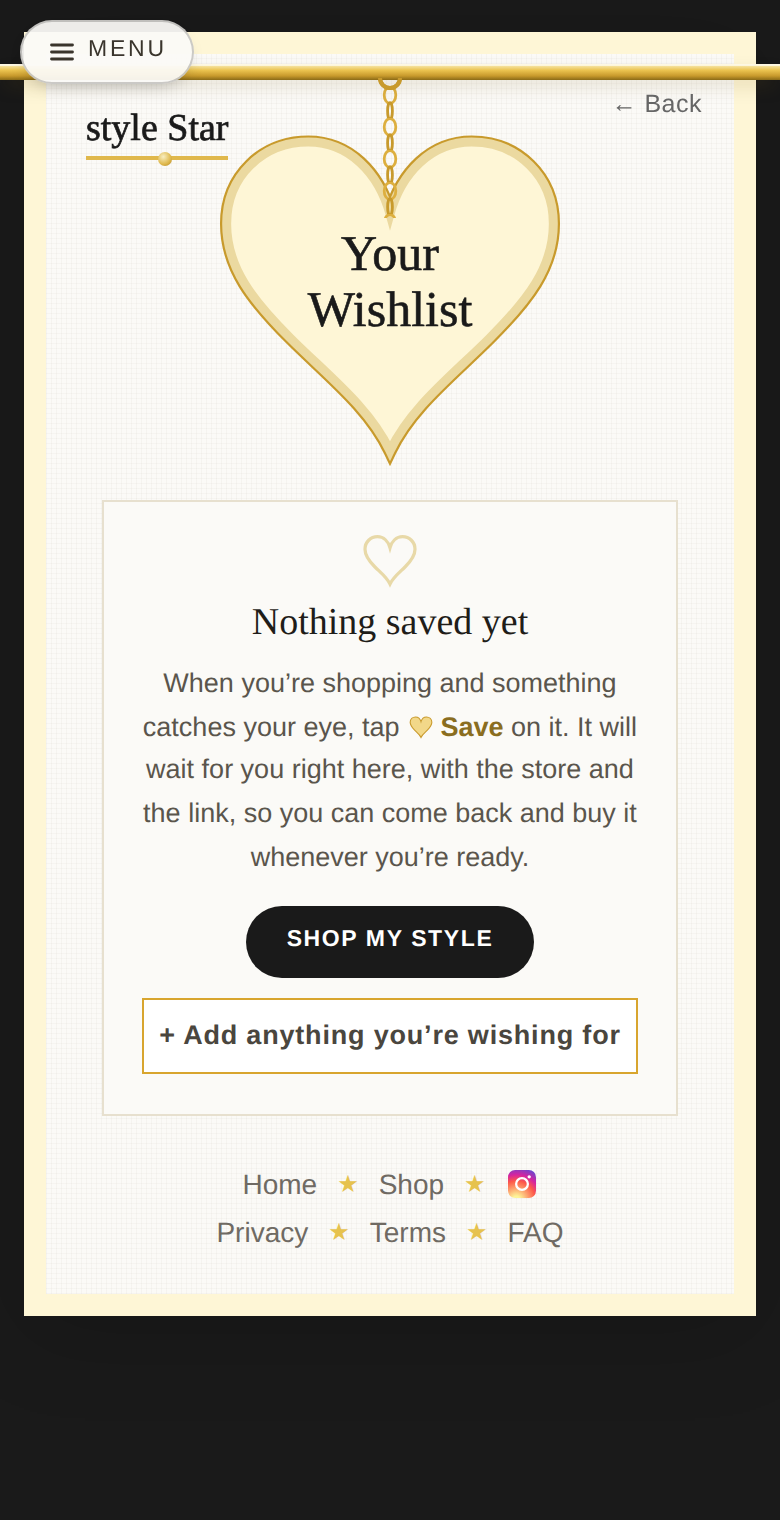
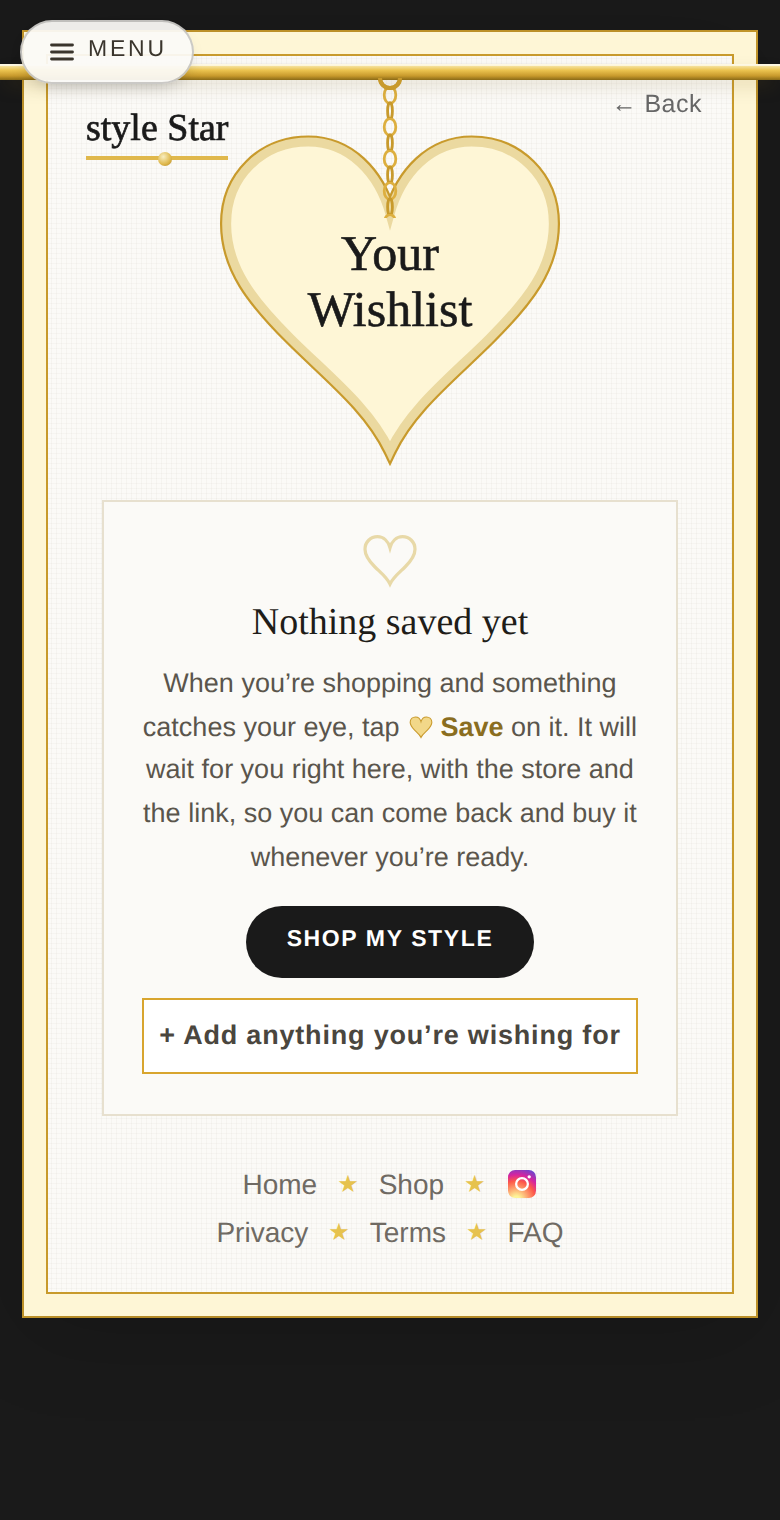
The wishlist frame gets its gold hairline (her pick, A)
Her catch on the live page: the pale yellow frame was getting lost. The cause is
VALUE, not hue. #FEF6D6 is nearly as light as the paper it surrounds, so the
frame's inner edge dissolved into the page and only its outer edge, against the
black velvet, read at all. The frame ended up looking like the paper simply had
a black outline.

Her pick from a five-way render: a 1px gold hairline on both edges. It keeps her
pale yellow exactly and gives it definition. The colour is #C89A2C, the crown
heart's own outline stroke, so the frame now matches the heart in construction
and not just in colour, which is what picking the heart's yellow was reaching for.

Offered and not taken: a black hairline (its outer ring merges with the velvet,
so it only does half a job) and two options that deepened the yellow instead.

Drawn with box-shadow, never a second border: an outset ring against the velvet
and an inset ring where the frame meets the paper, at zero layout cost. That
matters because the empty-state wishing button has only 13px of headroom, and it
still measures 13px after this.

⚠ This does not break the anti-layered-edge rule, it sharpens it. Her earlier
retirements (the restore card's 4px bar, My Story's white and pink inset rings)
were both second EMPHASIS devices on something already loud. A hairline here is
DEFINITION, the thing that makes the pale band visible at all.

Verified: wlframe.js grows 24 to 36 checks across 390/375/360, pinning both
[…]

diff --git a/index.html b/index.html
@@ -175,9 +175,22 @@ html.shop-brick,body.shop-brick{background-size:90px 54px;background-color:#F2EF
    she kept seeing. The page now carries ONE clean 11px frame in #FEF6D6, the
    exact pale yellow of the big crown heart above it -- same structure as My
    Story (11px solid) and the wardrobe, so all three boutique frames agree.
-   ⚠ Do not reintroduce a layered edge here; it is the same instinct that
-   retired the white+pink inset rings on My Story. */
-.ss.wishlist-mirror{border-width:11px;border-color:#FEF6D6}
+   AND HER FOLLOW-UP, same day, from the live page: the pale band was "too pale,
+   getting lost." ▶ The cause is VALUE, not hue -- #FEF6D6 is nearly as light as
+   the paper it surrounds, so its INNER edge dissolved into the page and only the
+   outer edge (against the black velvet) read at all. Her pick from a 5-way
+   render: a 1px gold hairline on BOTH edges, which keeps her pale yellow exactly
+   and gives it definition. #C89A2C is the crown heart's OWN outline stroke, so
+   the frame now matches the heart in construction, not just in colour.
+   ⚠ Drawn with box-shadow, never a second border: an outset ring sits against
+   the velvet and an inset ring sits where the frame meets the paper, at ZERO
+   layout cost -- the empty-state wishing button has only 13px of headroom.
+   ⚠ The earlier note here said never to layer an edge on this frame. That was
+   about EMPHASIS (the restore card's 4px bar, My Story's white+pink rings, both
+   retired by her). A hairline is DEFINITION -- it is what makes the pale band
+   visible at all. Don't add a third edge; this one is hers and it stays. */
+.ss.wishlist-mirror{border-width:11px;border-color:#FEF6D6;
+  box-shadow:0 8px 44px rgba(0,0,0,.16),0 0 0 1px #C89A2C,inset 0 0 0 1px #C89A2C}
 .ss.wishlist-mirror::before{display:none}
 html.wl-velvet,html.wl-velvet body{background:#1a1a1a}
 /* MY STORY'S VELVET (2026-08-09, her design: "I think it will make that page

diff --git a/scratchpad/wlframe.js b/scratchpad/wlframe.js
@@ -26,7 +26,10 @@ for(const w of [390,375,360]){
     const rg=document.createRange(); rg.selectNodeContents(span);
     const lines=[...new Set([...rg.getClientRects()].map(x=>Math.round(x.top)))].length;
     const cr=card.getBoundingClientRect(), br=btn.getBoundingClientRect();
+    const heartStroke=document.querySelector('#s-wishlist .wl-crownheart path:nth-of-type(1)');
     return {bw:cs.borderTopWidth,bc:cs.borderTopColor,beforeDisplay:before.display,
+      shadow:cs.boxShadow,
+      heartStroke:heartStroke?heartStroke.getAttribute('stroke'):null,
       heartFill:heart?heart.getAttribute('fill'):null,
       bleed:getComputedStyle(document.body).backgroundColor,
       avail,need,head:avail-need,lines,
@@ -37,6 +40,14 @@ for(const w of [390,375,360]){
   ok(r.bc==='rgb(254, 246, 214)',`frame is the crown heart's pale yellow (${r.bc})`);
   ok(r.heartFill==='#FEF6D6','...which is the exact fill of the big heart');
   ok(r.beforeDisplay==='none','the brown gilt band is gone');
+  // Her pick (2026-08-10): a gold hairline on BOTH edges, because the pale band
+  // alone dissolved into the paper. Both rings must survive, and the colour must
+  // stay the crown heart's own outline -- that is the whole point of the choice.
+  const rings=(r.shadow.match(/rgb\(200, 154, 44\)/g)||[]).length;
+  ok(rings===2,`gold hairline on both edges (${rings} rings)`);
+  ok(/inset/.test(r.shadow),'...one of them inset, so the inner edge reads against the paper');
+  ok(r.heartStroke==='#C89A2C','...in the crown heart\'s own outline gold');
+  ok(/44px/.test(r.shadow),'the card\'s drop shadow survived the box-shadow rewrite');
   ok(r.bleed==='rgb(26, 26, 26)','black velvet behind it is untouched');
   ok(r.inside&&!r.over,'nothing overflows');
   if(w>=390) ok(r.lines===1,`wishing button holds one line (${r.avail} avail / ${r.need} need, headroom ${r.head}px)`);

diff --git a/CLAUDE.md b/CLAUDE.md
@@ -35,6 +35,23 @@ are using Your and My. I want to be consistent and not confusing and not annoyin
   stops the brand name splitting across lines, which the browser's own wrap would have done for a longer name.
   ⚠ **Don't remove the forced break.** `scratchpad/titlerule.js` asserts block-hugs-widest-line, rule-inside-
   the-title, and **rule-identical-at-390/375/360** — the last one is what would fail if it regresses.
+- ✅ **HER TWO LIVE CATCHES ON THE SHIPPED VERSION, both built (2026-08-10):** (1) **the rule was too short** on
+  the no-name title — it was inset `left/right:8%`, now **0/0, so it is exactly as wide as the words** (252px
+  under the 252px no-name title, 0px overhang; 222px under the named one, matching its first line). ⚠
+  `titlerule.js`'s assertion flipped from *rule-inside-the-words* to *rule-equals-the-words* — a deliberate
+  change, recorded here so it can't read as a silenced test. (2) **the pale wishlist frame was "getting lost"**
+  — ▶ **the cause is VALUE, not hue: `#FEF6D6` is nearly as light as the paper it surrounds, so its INNER edge
+  dissolved and only the outer edge (against the black velvet) read at all.** Her pick from a 5-way render
+  (`scratchpad/wlframe2.js` → `wlframe2.png`): **a 1px gold hairline on BOTH edges in `#C89A2C`, the crown
+  heart's OWN outline stroke** — so the frame now matches the heart in CONSTRUCTION, not just colour. Offered
+  and not taken: a black hairline (its outer ring merges with the velvet, redundant) and two
+  deepen-the-yellow-instead options. ⚠ **Drawn with `box-shadow` (outset ring + inset ring), never a second
+  border — ZERO layout cost**, which matters because the empty-state wishing button has only 13px of headroom.
+  ▶ **AND THIS SHARPENS THE ANTI-LAYERED-EDGE RULE rather than breaking it: her past retirements (the restore
+  card's 4px bar, My Story's white+pink rings) were second EMPHASIS devices on something already loud. A
+  hairline here is DEFINITION — it is what makes the pale band visible at all.** Weigh future edges by that
+  distinction. `wlframe.js` is 24 → 32 checks (both rings present, one inset, colour == the heart's stroke, and
+  the card's own drop shadow surviving the box-shadow rewrite).
 - 🚨 **PR #811 (the pale-yellow wishlist frame) MERGED AN EMPTY DIFF, and she was right that it wasn't live.**
   The commit was made **on `main`** by mistake, the branch the PR was opened from never carried it, and the
   squash-merge landed a commit message with no code. **Recovered from `git reflog`** (`9da207f`) and shipped
